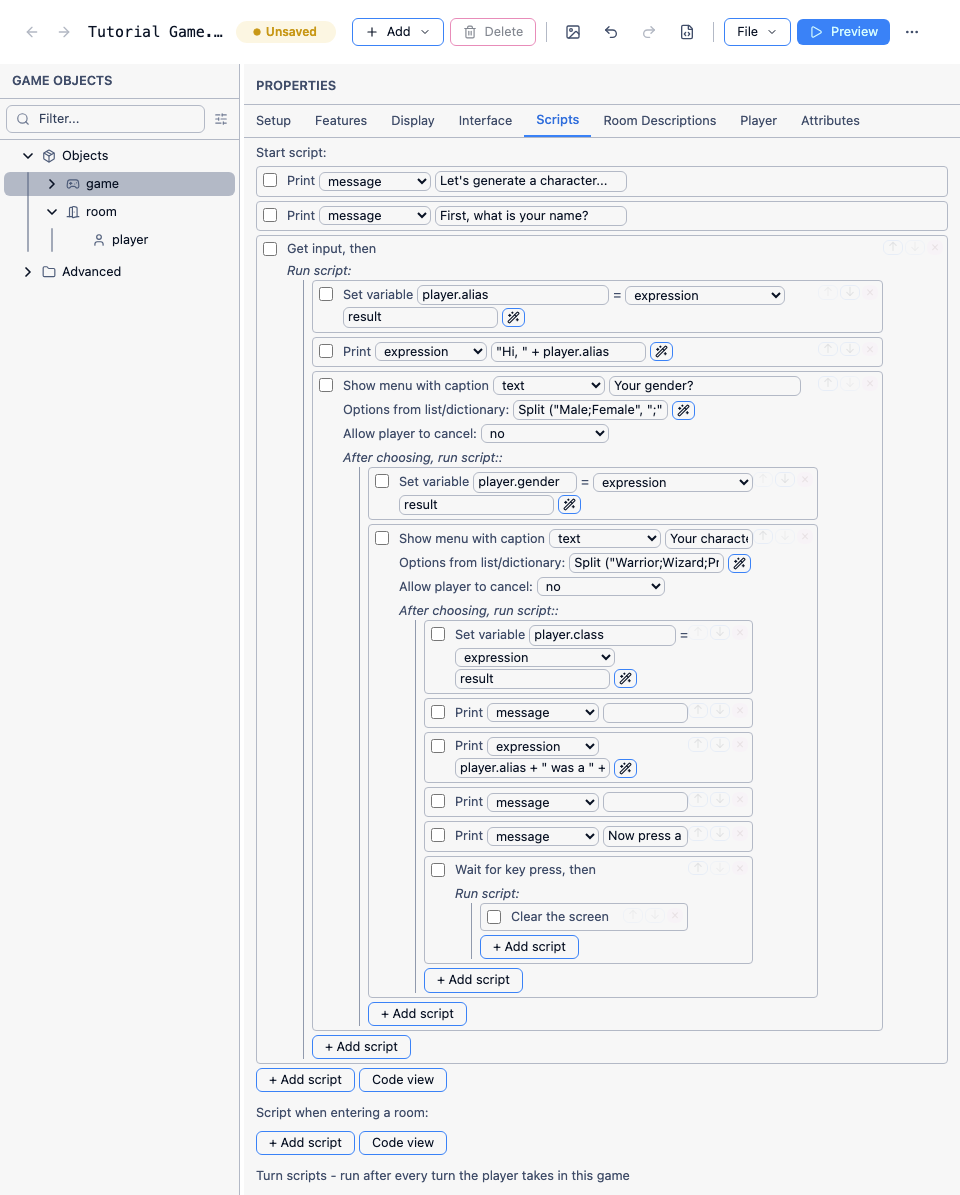
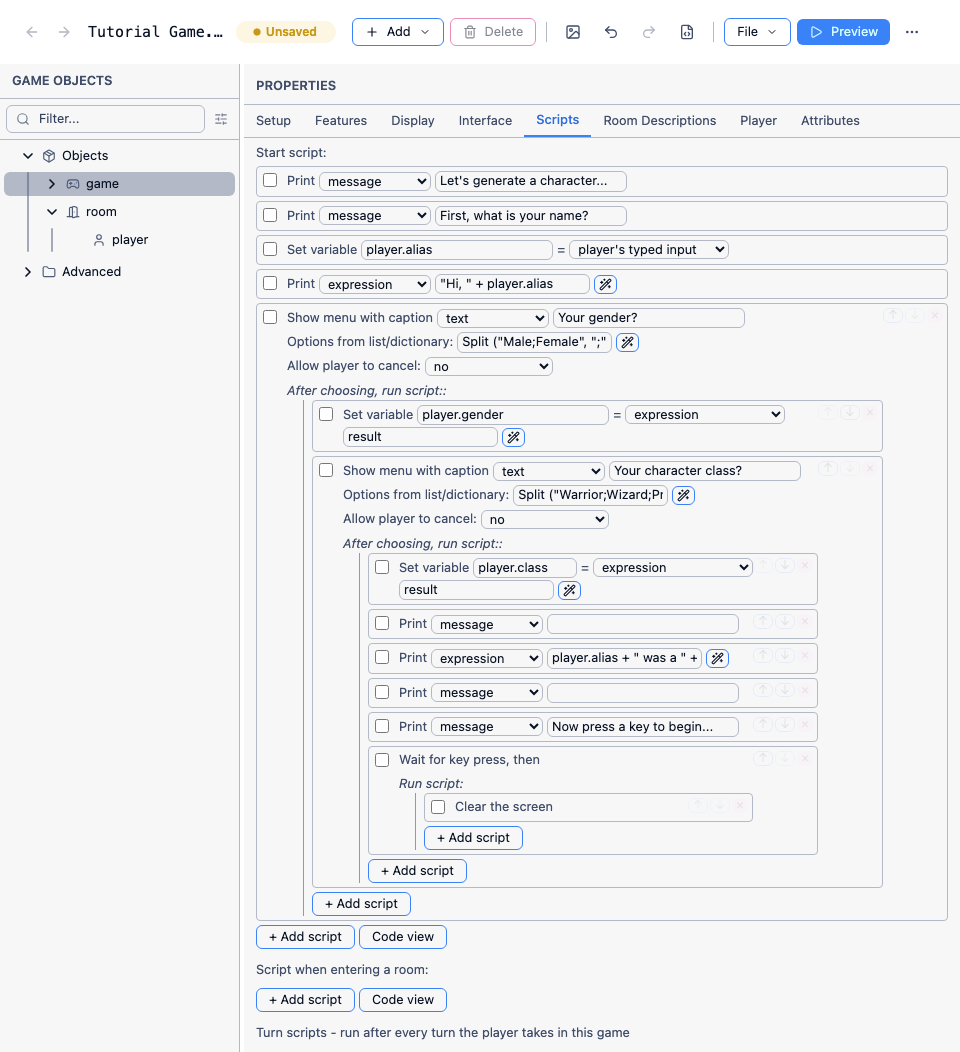
feat(docs): regenerate character_creation.md screenshots for GetInput()
Creation1.png/Creation2.png still showed the old "get input" callback
block, which no longer matches the doc text after the GetInput() rewrite.
Updated capture-character-creation.mjs to type the new script (flat
player.alias = GetInput() instead of a get input { } block) and
regenerated both images against the live AppShell editor.

Along the way, corrected the doc's GUI instructions: verified live that
the value-template picker labels this option "player's typed input", not
literally "GetInput()" - the doc now names the actual picker label and
notes GetInput() is what it maps to in code view.

Full production build verified clean (725 pages, no errors).

diff --git a/site/src/content/docs/howto/rpg/character_creation.md b/site/src/content/docs/howto/rpg/character_creation.md
@@ -14,7 +14,7 @@ We will look at various ways of doing that, starting with the most basic.
 Just A Couple of Questions
 --------------------------
 
-Go to the "Scripts" tab of the "game" object. The start script is at the top. Set the script to print a message prompting the player, then add a "Set a variable or attribute" action, and pick `GetInput()` from the list of value templates. Set it up like this:
+Go to the "Scripts" tab of the "game" object. The start script is at the top. Set the script to print a message prompting the player, then add a "Set a variable or attribute" action, and pick "player's typed input" from the list of value templates (this is `GetInput()` under the hood - you'll see that if you switch to code view). Set it up like this:
 
 ![](/images/Creation1.png)
 
